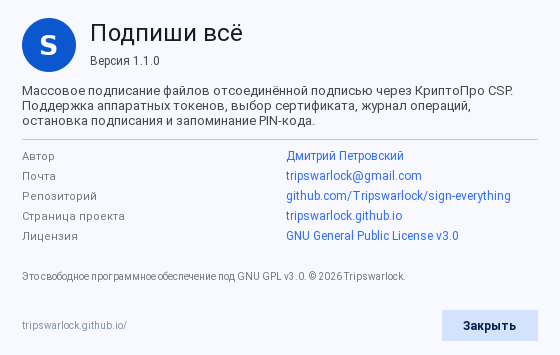
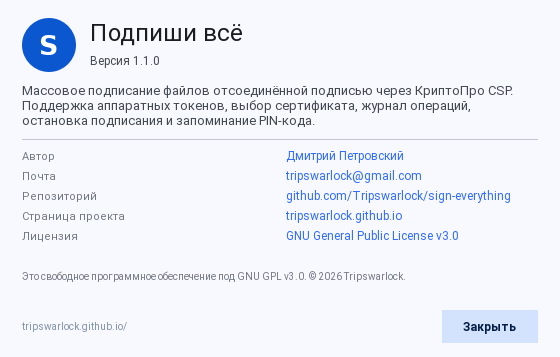
Thin app bar, pill action buttons and smaller card radius

diff --git a/Sign-everything.py b/Sign-everything.py
@@ -612,6 +612,72 @@ def apply_elevation(widget: QWidget, blur: int = 18, offset: int = 4, alpha: int
     widget.setGraphicsEffect(effect)
 
 
+BUTTON_STYLES = {
+    "Primary": """
+QPushButton {
+    background: #0B57D0; color: #FFFFFF; border: 1px solid #0B57D0;
+    border-radius: 18px; padding: 9px 22px; font-size: 9pt; font-weight: 600;
+}
+QPushButton:hover { background: #0842A0; border-color: #0842A0; }
+QPushButton:pressed { background: #06327A; border-color: #06327A; }
+QPushButton:disabled { background: #E1E3E9; color: #A9ACB4; border-color: #E1E3E9; }
+""",
+    "Tonal": """
+QPushButton {
+    background: #D3E3FD; color: #041E49; border: 1px solid #D3E3FD;
+    border-radius: 18px; padding: 8px 16px; font-size: 8.5pt; font-weight: 600;
+}
+QPushButton:hover { background: #C2D7FB; border-color: #C2D7FB; }
+QPushButton:pressed { background: #B0CBF7; border-color: #B0CBF7; }
+QPushButton:disabled { background: #E6E8EE; color: #A9ACB4; border-color: #E6E8EE; }
+""",
+    "OutlinedDanger": """
+QPushButton {
+    background: transparent; color: #BA1A1A; border: 1px solid #C3C7CF;
+    border-radius: 18px; padding: 8px 18px; font-size: 8.5pt; font-weight: 600;
+}
+QPushButton:hover { background: rgba(186, 26, 26, 0.08); border-color: #BA1A1A; }
+QPushButton:disabled { color: #A9ACB4; border-color: #E1E3E9; background: transparent; }
+""",
+    "IconTonal": """
+QPushButton {
+    background: #D3E3FD; border: 1px solid #D3E3FD;
+    border-radius: 15px; padding: 0;
+}
+QPushButton:hover { background: #C2D7FB; border-color: #C2D7FB; }
+QPushButton:disabled { background: #E6E8EE; border-color: #E6E8EE; }
+""",
+    "Text": """
+QPushButton {
+    background: transparent; color: #0B57D0; border: 1px solid transparent;
+    border-radius: 14px; padding: 6px 10px; font-size: 8.5pt; font-weight: 600;
+}
+QPushButton:hover { background: rgba(11, 87, 208, 0.08); }
+""",
+    "TextDanger": """
+QPushButton {
+    background: transparent; color: #BA1A1A; border: 1px solid transparent;
+    border-radius: 14px; padding: 6px 8px; font-size: 8.5pt; font-weight: 500;
+}
+QPushButton:hover { background: rgba(186, 26, 26, 0.08); }
+""",
+}
+
+
+def apply_button_style(button: QPushButton, variant: str) -> None:
+    button.setStyleSheet(BUTTON_STYLES[variant])
+
+
+def apply_tool_button_style(button: QToolButton) -> None:
+    button.setStyleSheet(
+        "QToolButton { background: transparent; border: 1px solid transparent;"
+        " border-radius: 15px; padding: 0; }"
+        " QToolButton:hover { background: #E1E3E9; }"
+        " QToolButton:pressed { background: #D3E3FD; }"
+        " QToolButton::menu-indicator { image: none; width: 0; }"
+    )
+
+
 class ElidedLabel(QLabel):
     def __init__(self, text: str = "", parent=None):
         super().__init__(parent)
@@ -683,7 +749,7 @@ class DropZone(QFrame):
 
         layout = QHBoxLayout(self)
         layout.setContentsMargins(14, 10, 14, 10)
-        layout.setSpacing(10)
+        layout.setSpacing(8)
 
         icon_label = QLabel()
         icon_label.setObjectName("DropIcon")
@@ -706,6 +772,7 @@ class DropZone(QFrame):
 
         self.choose_button = QPushButton("Выбрать")
         self.choose_button.setObjectName("Tonal")
+        apply_button_style(self.choose_button, "Tonal")
         self.choose_button.setCursor(Qt.PointingHandCursor)
         self.choose_button.clicked.connect(self.chooseClicked)
         layout.addWidget(self.choose_button)
@@ -923,7 +990,7 @@ QMenu {{
     background: #ECEEF4;
     color: #1A1C1E;
     border: 0;
-    border-radius: 12px;
+    border-radius: 8px;
     padding: 6px;
 }}
 QMenu::item {{ padding: 7px 20px; border-radius: 8px; font-size: 8.5pt; }}
@@ -940,15 +1007,15 @@ QLabel#BrandMark {{
     background: transparent;
     border: 0;
 }}
-QLabel#BrandTitle {{ color: #1A1C1E; font-size: 17pt; font-weight: 500; }}
-QLabel#BrandSubtitle {{ color: #43474E; font-size: 8pt; }}
+QLabel#BrandTitle {{ color: #1A1C1E; font-size: 13pt; font-weight: 500; }}
+QLabel#BrandSubtitle {{ color: #43474E; font-size: 7pt; }}
 QLabel#HeaderBadge {{
     background: #E6E8EE;
     border: 0;
     border-radius: 8px;
     color: #43474E;
-    padding: 5px 10px;
-    font-size: 8pt;
+    padding: 3px 8px;
+    font-size: 7pt;
     font-weight: 600;
 }}
 QLabel#HeaderBadge[state="warn"] {{ background: #FFE9C7; color: #6B4400; }}
@@ -958,12 +1025,12 @@ QLabel#HeaderBadge[state="ok"] {{ background: #C4EED0; color: #0E5222; }}
 QFrame#Card {{
     background: #ECEEF4;
     border: 0;
-    border-radius: 12px;
+    border-radius: 8px;
 }}
 QFrame#StatCard {{
     background: #ECEEF4;
     border: 0;
-    border-radius: 12px;
+    border-radius: 8px;
 }}
 QFrame#StatCard[accent="true"] {{ background: #D3E3FD; }}
 QLabel#CardTitle {{ color: #1A1C1E; font-size: 9pt; font-weight: 600; }}
@@ -977,7 +1044,7 @@ QLabel#StatCaption {{ color: #43474E; font-size: 7.5pt; }}
 QFrame#DropZone {{
     background: #F2F3F9;
     border: 1.5px dashed #C3C7CF;
-    border-radius: 12px;
+    border-radius: 8px;
 }}
 QFrame#DropZone[dragActive="true"] {{
     background: #D3E3FD;
@@ -1044,30 +1111,30 @@ QComboBox QAbstractItemView {{
 }}
 
 /* Кнопки */
-QPushButton {{ font-size: 8.5pt; font-weight: 500; }}
+QPushButton {{ font-size: 8.5pt; font-weight: 500; background: #0B57D0; color: #FFFFFF; border: 1px solid #0B57D0; border-radius: 20px; padding: 8px 16px; }}
 QPushButton#Primary {{
     background: #0B57D0;
     color: #FFFFFF;
-    border: 0;
+    border: 1px solid #0B57D0;
     border-radius: 20px;
     padding: 9px 22px;
     font-size: 9pt;
     font-weight: 600;
 }}
-QPushButton#Primary:hover {{ background: #0842A0; }}
-QPushButton#Primary:pressed {{ background: #06327A; }}
-QPushButton#Primary:disabled {{ background: #E1E3E9; color: #A9ACB4; }}
+QPushButton#Primary:hover {{ background: #0842A0; border-color: #0842A0; }}
+QPushButton#Primary:pressed {{ background: #06327A; border-color: #06327A; }}
+QPushButton#Primary:disabled {{ background: #E1E3E9; color: #A9ACB4; border-color: #E1E3E9; }}
 QPushButton#Tonal {{
     background: #D3E3FD;
     color: #041E49;
-    border: 0;
+    border: 1px solid #D3E3FD;
     border-radius: 20px;
     padding: 8px 16px;
     font-weight: 600;
 }}
-QPushButton#Tonal:hover {{ background: #C2D7FB; }}
-QPushButton#Tonal:pressed {{ background: #B0CBF7; }}
-QPushButton#Tonal:disabled {{ background: #E6E8EE; color: #A9ACB4; }}
+QPushButton#Tonal:hover {{ background: #C2D7FB; border-color: #C2D7FB; }}
+QPushButton#Tonal:pressed {{ background: #B0CBF7; border-color: #B0CBF7; }}
+QPushButton#Tonal:disabled {{ background: #E6E8EE; color: #A9ACB4; border-color: #E6E8EE; }}
 QPushButton#Outlined {{
     background: transparent;
     color: #0B57D0;
@@ -1086,18 +1153,18 @@ QPushButton#OutlinedDanger {{
     font-weight: 600;
 }}
 QPushButton#OutlinedDanger:hover {{ background: rgba(186, 26, 26, 0.08); border-color: #BA1A1A; }}
-QPushButton#OutlinedDanger:disabled {{ color: #A9ACB4; border-color: #E1E3E9; background: transparent; }}
+QPushButton#OutlinedDanger:disabled {{ color: #A9ACB4; border: 1px solid #E1E3E9; background: transparent; }}
 QPushButton#IconTonal {{
     background: #D3E3FD;
-    border: 0;
+    border: 1px solid #D3E3FD;
     border-radius: 16px;
     padding: 0;
 }}
-QPushButton#IconTonal:hover {{ background: #C2D7FB; }}
-QPushButton#IconTonal:disabled {{ background: #E6E8EE; }}
+QPushButton#IconTonal:hover {{ background: #C2D7FB; border-color: #C2D7FB; }}
+QPushButton#IconTonal:disabled {{ background: #E6E8EE; border-color: #E6E8EE; }}
 QToolButton#IconButton {{
     background: transparent;
-    border: 0;
+    border: 1px solid transparent;
     border-radius: 18px;
     padding: 0;
 }}
@@ -1107,7 +1174,7 @@ QToolButton#IconButton::menu-indicator {{ image: none; width: 0; }}
 QPushButton#Text {{
     background: transparent;
     color: #0B57D0;
-    border: 0;
+    border: 1px solid transparent;
     border-radius: 16px;
     padding: 6px 10px;
     font-weight: 600;
@@ -1116,7 +1183,7 @@ QPushButton#Text:hover {{ background: rgba(11, 87, 208, 0.08); }}
 QPushButton#TextDanger {{
     background: transparent;
     color: #BA1A1A;
-    border: 0;
+    border: 1px solid transparent;
     border-radius: 16px;
     padding: 6px 8px;
     font-weight: 500;
@@ -1155,7 +1222,7 @@ QProgressBar::chunk {{ background: #0B57D0; border-radius: 2px; }}
 QTextEdit#Log {{
     background: #F2F3F9;
     border: 0;
-    border-radius: 12px;
+    border-radius: 8px;
     color: #1A1C1E;
     font-family: "DejaVu Sans Mono";
     font-size: 8pt;
@@ -1296,6 +1363,7 @@ class AboutDialog(QDialog):
         footer.addStretch(1)
         close_btn = QPushButton("Закрыть")
         close_btn.setObjectName("Tonal")
+        apply_button_style(close_btn, "Tonal")
         close_btn.setCursor(Qt.PointingHandCursor)
         close_btn.setFixedWidth(96)
         close_btn.clicked.connect(self.accept)
@@ -1389,16 +1457,16 @@ class MainWindow(QMainWindow):
     def _build_header(self) -> QFrame:
         header = QFrame()
         header.setObjectName("Header")
-        header.setFixedHeight(72)
+        header.setFixedHeight(48)
         layout = QHBoxLayout(header)
-        layout.setContentsMargins(16, 10, 14, 10)
-        layout.setSpacing(10)
+        layout.setContentsMargins(14, 6, 12, 6)
+        layout.setSpacing(8)
 
         mark = QLabel()
         mark.setObjectName("BrandMark")
         mark.setAlignment(Qt.AlignCenter)
-        mark.setFixedSize(40, 40)
-        mark.setPixmap(make_logo_pixmap(40))
+        mark.setFixedSize(30, 30)
+        mark.setPixmap(make_logo_pixmap(30))
         layout.addWidget(mark)
 
         text_layout = QVBoxLayout()
@@ -1425,9 +1493,10 @@ class MainWindow(QMainWindow):
         overflow_menu.addAction(self.about_action)
         self.more_btn = QToolButton()
         self.more_btn.setObjectName("IconButton")
+        apply_tool_button_style(self.more_btn)
         self.more_btn.setIcon(make_more_icon())
-        self.more_btn.setIconSize(QSize(20, 20))
-        self.more_btn.setFixedSize(36, 36)
+        self.more_btn.setIconSize(QSize(18, 18))
+        self.more_btn.setFixedSize(30, 30)
         self.more_btn.setCursor(Qt.PointingHandCursor)
         self.more_btn.setPopupMode(QToolButton.InstantPopup)
         self.more_btn.setMenu(overflow_menu)
@@ -1439,7 +1508,7 @@ class MainWindow(QMainWindow):
         container = QWidget()
         layout = QHBoxLayout(container)
         layout.setContentsMargins(0, 0, 0, 0)
-        layout.setSpacing(10)
+        layout.setSpacing(8)
 
         self.stat_total = StatCard("Всего документов")
         self.stat_todo = StatCard("К подписанию", accent=True)
@@ -1490,6 +1559,7 @@ class MainWindow(QMainWindow):
 
         self.refresh_btn = QPushButton()
         self.refresh_btn.setObjectName("IconTonal")
+        apply_button_style(self.refresh_btn, "IconTonal")
         self.refresh_btn.setIcon(self.style().standardIcon(QStyle.SP_BrowserReload))
         self.refresh_btn.setIconSize(QSize(14, 14))
         self.refresh_btn.setCursor(Qt.PointingHandCursor)
@@ -1512,6 +1582,7 @@ class MainWindow(QMainWindow):
 
         self.eye_btn = QPushButton()
         self.eye_btn.setObjectName("IconTonal")
+        apply_button_style(self.eye_btn, "IconTonal")
         self.eye_btn.setCheckable(True)
         self.eye_btn.setCursor(Qt.PointingHandCursor)
         self.eye_btn.setFixedSize(30, 30)
@@ -1535,6 +1606,7 @@ class MainWindow(QMainWindow):
 
         self.forget_btn = QPushButton("Забыть")
         self.forget_btn.setObjectName("TextDanger")
+        apply_button_style(self.forget_btn, "TextDanger")
         self.forget_btn.setCursor(Qt.PointingHandCursor)
         self.forget_btn.setToolTip("Удалить сохранённый PIN и очистить поле")
         self.forget_btn.clicked.connect(self._forget_pin)
@@ -1570,12 +1642,14 @@ class MainWindow(QMainWindow):
         self.btn_sign.setCursor(Qt.PointingHandCursor)
         self.btn_sign.setMinimumHeight(36)
         self.btn_sign.setMinimumWidth(160)
+        apply_button_style(self.btn_sign, "Primary")
         self.btn_sign.setEnabled(False)
         self.btn_sign.clicked.connect(self.start_signing)
         row.addWidget(self.btn_sign)
 
         self.btn_stop = QPushButton("Остановить")
         self.btn_stop.setObjectName("OutlinedDanger")
+        apply_button_style(self.btn_stop, "OutlinedDanger")
         self.btn_stop.setCursor(Qt.PointingHandCursor)
         self.btn_stop.setMinimumHeight(36)
         self.btn_stop.setEnabled(False)
@@ -1622,12 +1696,14 @@ class MainWindow(QMainWindow):
 
         self.copy_btn = QPushButton("Копировать")
         self.copy_btn.setObjectName("Text")
+        apply_button_style(self.copy_btn, "Text")
         self.copy_btn.setCursor(Qt.PointingHandCursor)
         self.copy_btn.clicked.connect(self._copy_log)
         header.addWidget(self.copy_btn)
 
         self.clear_btn = QPushButton("Очистить")
         self.clear_btn.setObjectName("Text")
+        apply_button_style(self.clear_btn, "Text")
         self.clear_btn.setCursor(Qt.PointingHandCursor)
         self.clear_btn.clicked.connect(self._clear_log)
         header.addWidget(self.clear_btn)
